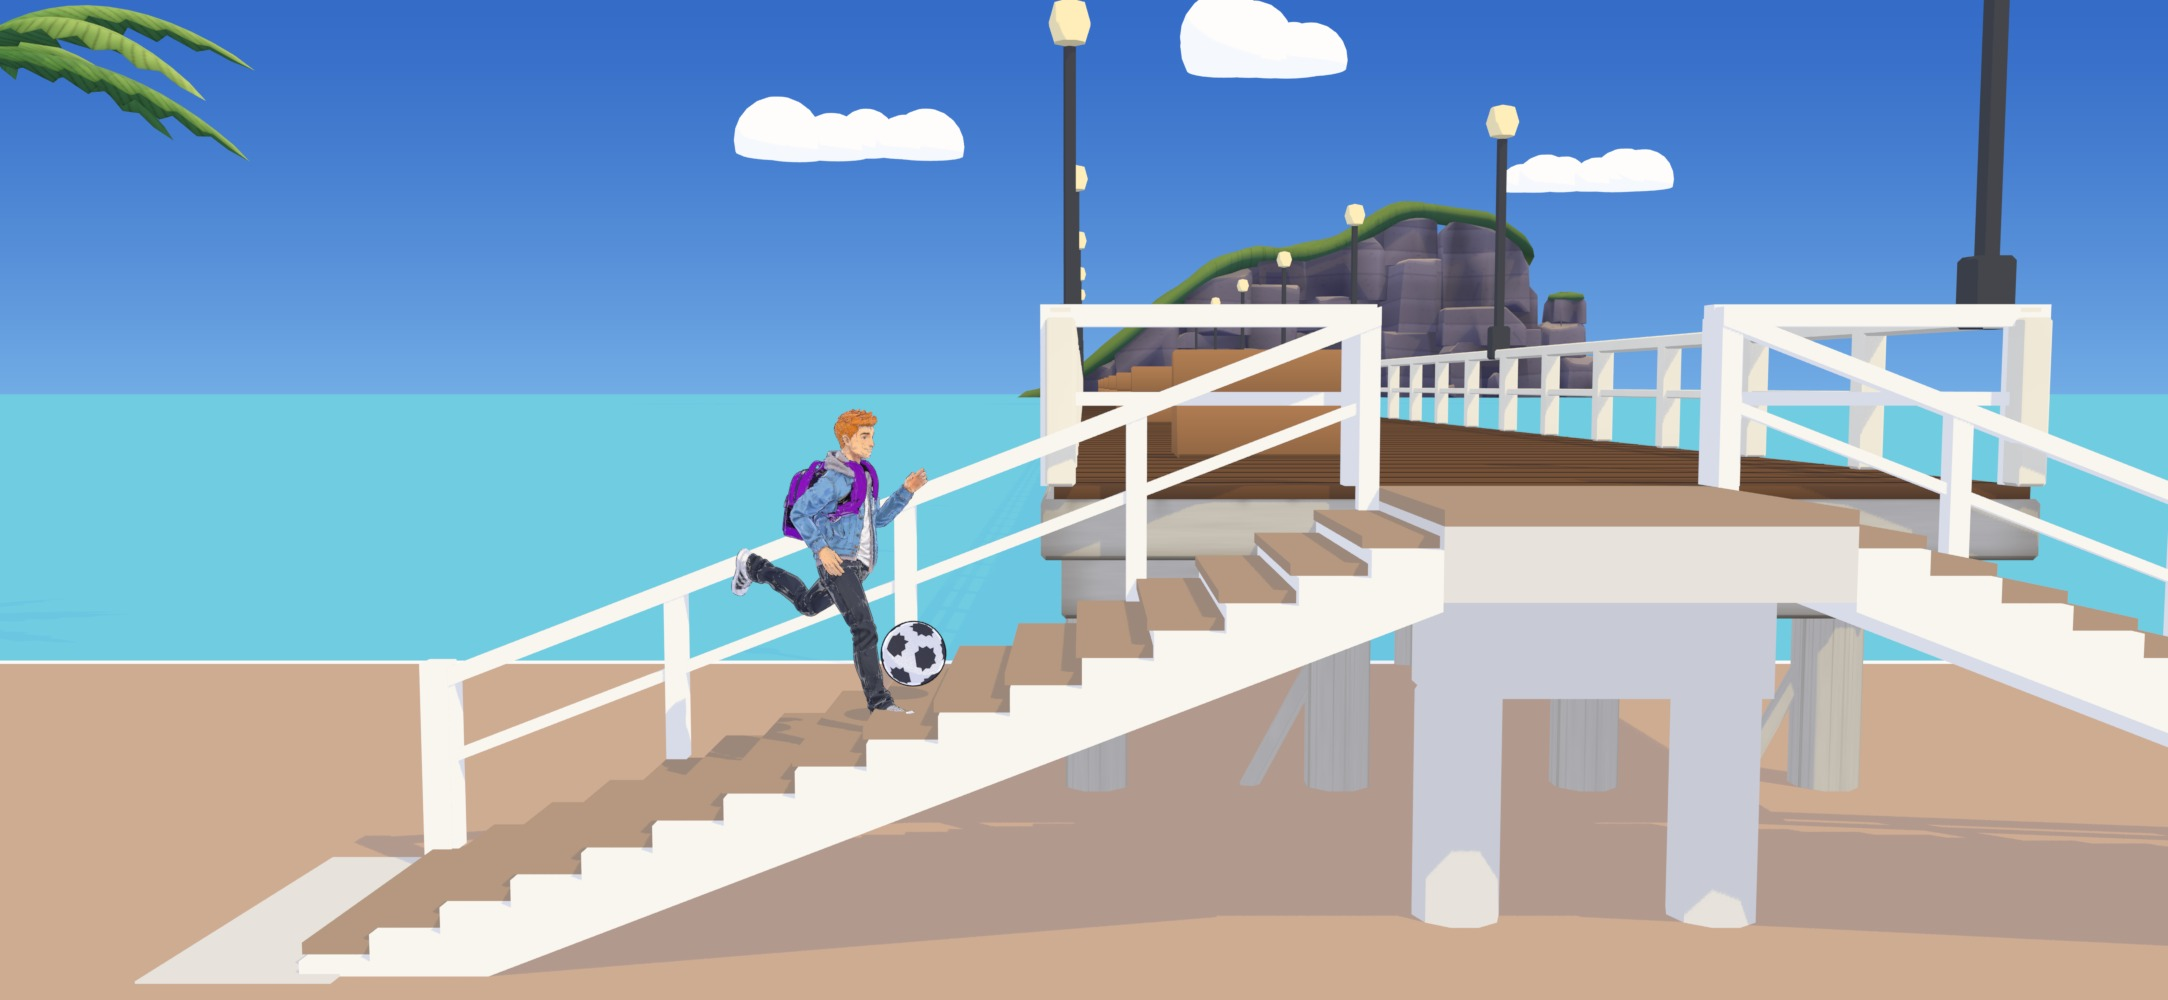
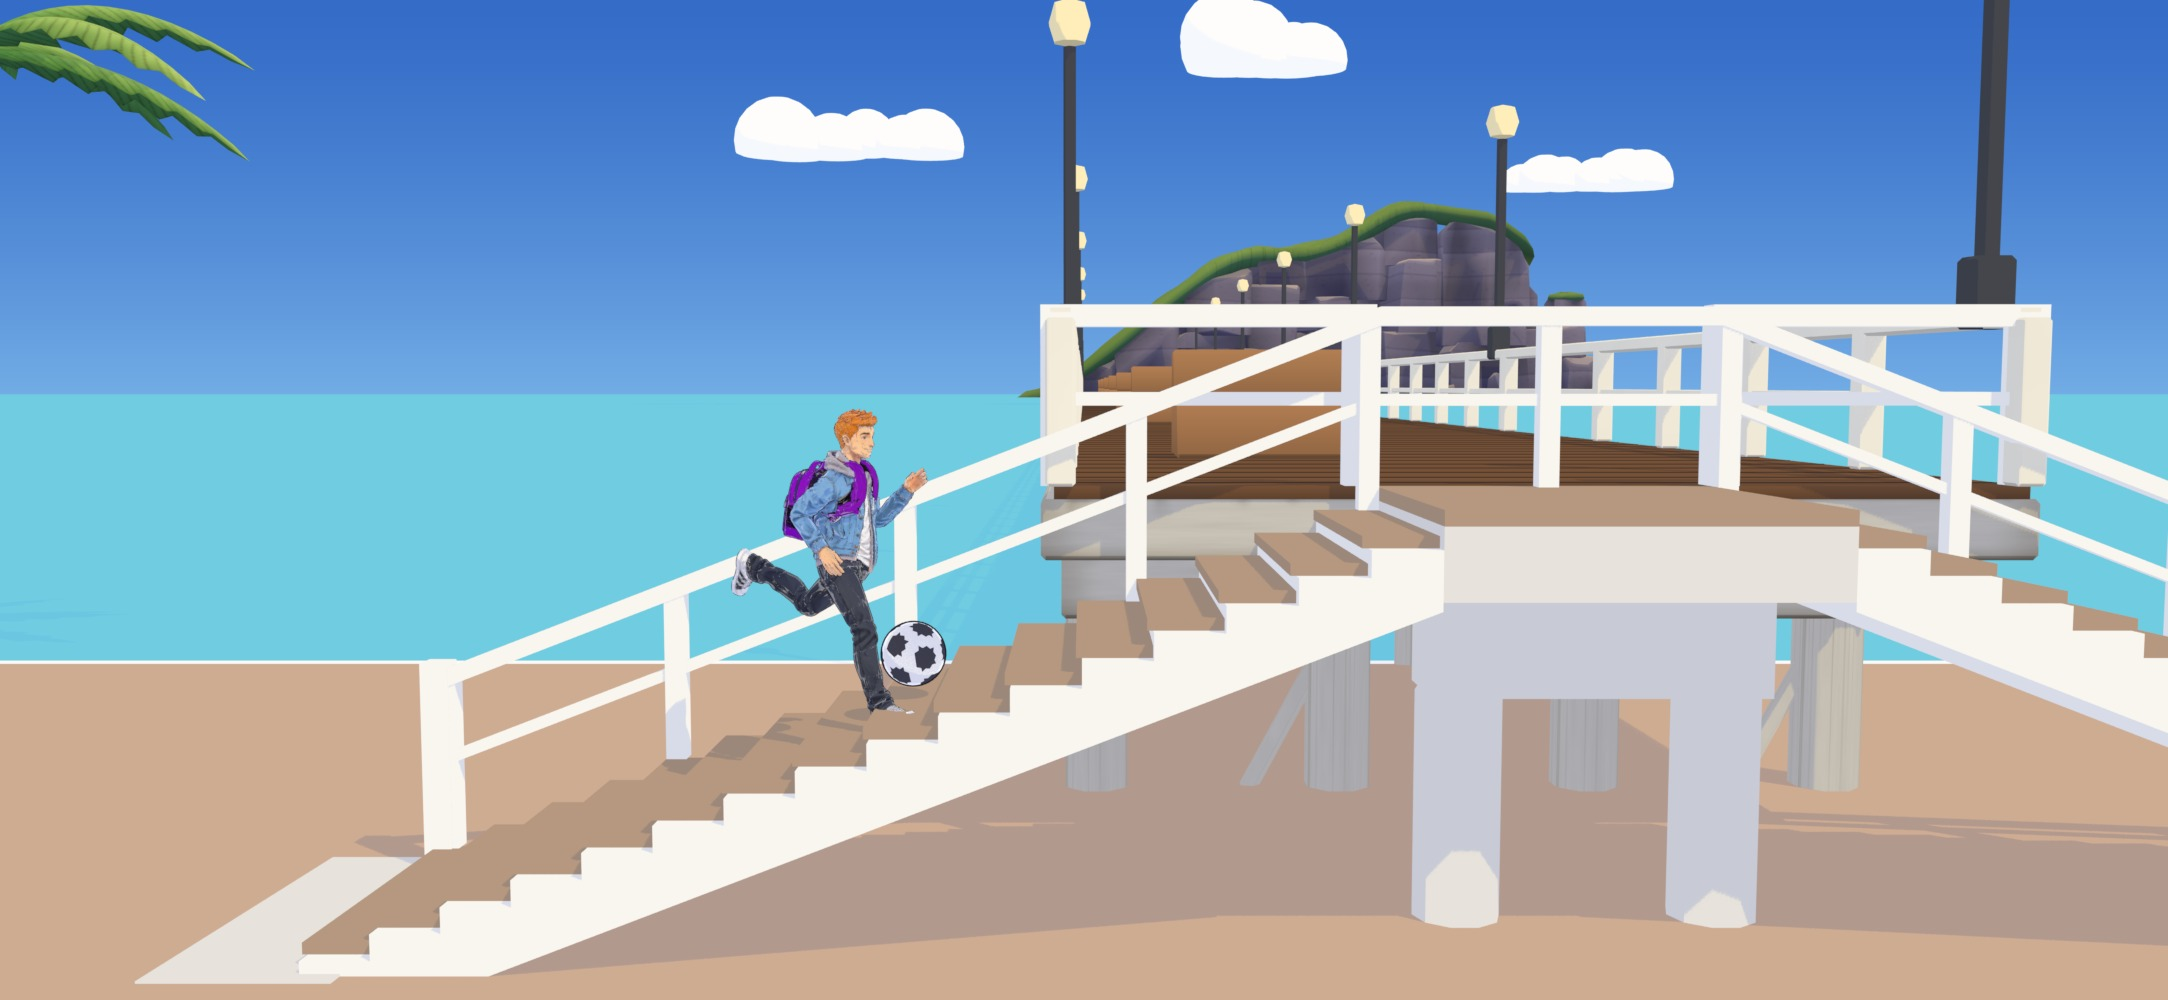
Pier climb: a fence across the top, one rail from foot to foot
On the course (Low Tide in California) the stairs' far rail stopped at each end of the landing,
leaving the top open. The rail now runs on along the back of the landing at the same height and
depth (top rail, mid rail, a post every 1.4 m at most), so it is one unbroken rail from the left
foot, up, over and down to the right foot. The camera's side stays open. PierStairs builds at load,
so the levels need no rebuild for it.

Claude-Session: https://claude.ai/code/session_015hMH18QThQGLzNLnkdW261

Changed region(s): [[0.6181, 0.279, 0.8035, 0.496]]

diff --git a/Assets/_Game/Scripts/World/PierStairs.cs b/Assets/_Game/Scripts/World/PierStairs.cs
@@ -111,6 +111,20 @@ namespace DribbleToSchool.World
                     foreach (float x in new[] { a + s * 0.09f, c - s * 0.09f })
                         Box(b, x - 0.09f, 0f, 0f, x + 0.09f, 1f, 0.18f, White, false);
                 }
+            if (onCourse)
+            {
+                // A fence across the top: the flights' rail goes on along the back of the landing, at the same height and
+                // depth, so it runs unbroken from the left foot, up, over and down to the right foot.
+                float zc = -0.08f;
+                Box(b, -hw, Rail - 0.11f, zc - 0.07f, hw, Rail, zc + 0.07f, White, true);
+                Box(b, -hw, 0.48f, zc - 0.04f, hw, 0.55f, zc + 0.04f, White, true);
+                int bays = Mathf.Max(1, Mathf.CeilToInt(landingWidth / 1.4f));
+                for (int k = 1; k < bays; k++)
+                {
+                    float x = -hw + landingWidth * k / bays;
+                    Box(b, x - 0.06f, 0f, zc - 0.06f, x + 0.06f, Rail - 0.05f, zc + 0.06f, White, false);
+                }
+            }
             // The bent under it: a cross beam on four piles (two under a short landing).
             float zb = -depth * 0.5f;
             Box(b, -hw + 0.1f, -1.05f, zb - 0.28f, hw - 0.1f, -0.45f, zb + 0.28f, Concrete, true);

diff --git a/review/pier_stairs/pier_stairs.py b/review/pier_stairs/pier_stairs.py
@@ -150,6 +150,16 @@ def build(mb, width=6.0, depth=1.9, drop_left=4.55, drop_right=4.55, landing_dro
             mb.box((min(a, c), 0.48, 0.03), (max(a, c), 0.56, 0.13), WHITE, bottom=True)
             for x in (a + s * 0.09, c - s * 0.09):
                 mb.box((x - 0.09, 0.0, 0.0), (x + 0.09, 1.0, 0.18), WHITE)
+    if on_course:
+        # a fence across the top: the flights' rail goes on along the back of the landing, unbroken from foot to foot
+        zc = -0.08
+        lw = 2 * hw
+        mb.box((-hw, RAIL - 0.11, zc - 0.07), (hw, RAIL, zc + 0.07), WHITE, bottom=True)
+        mb.box((-hw, 0.48, zc - 0.04), (hw, 0.55, zc + 0.04), WHITE, bottom=True)
+        bays = max(1, int(math.ceil(lw / 1.4)))
+        for k in range(1, bays):
+            x = -hw + lw * k / bays
+            mb.box((x - 0.06, 0.0, zc - 0.06), (x + 0.06, RAIL - 0.05, zc + 0.06), WHITE)
     # the bent under it: a cross beam on four piles (two under a short landing)
     zb = -depth / 2
     mb.box((-hw + 0.1, -1.05, zb - 0.28), (hw - 0.1, -0.45, zb + 0.28), CONCRETE, bottom=True)

diff --git a/review/pier_stairs/compose.py b/review/pier_stairs/compose.py
@@ -40,7 +40,7 @@ def label(im, text):
 COURSE = [('course_up', 'Up the steps with the ball: the camera rises with the kid'),
           ('course_top', 'Over the landing in front of the pier, at the top'),
           ('course_down', 'Down the other side to the sand (the camera follows them down)'),
-          ('course_whole', 'The climb across the lane: no rail on the camera side, so the kid is never behind bars')]
+          ('course_whole', 'One rail from foot to foot, fenced across the top; none on the camera side')]
 
 
 def course_board(src, out):

diff --git a/PROGRESS.md b/PROGRESS.md
@@ -824,7 +824,8 @@ The user found the first Coast models plain next to their reference shots (weath
   as two ramps and a ledge. The deck stands 2.3 m over the lane (the pier's piles go deeper into the sand there), and
   the flights are gentler than the pier's other stairs: risers of 13.5 cm on 35 cm treads, about 21 degrees, no steeper
   than the dunes. `StreetBuilder.Coast` `PierOnCourse` builds the pier with its near end just behind the lane and the
-  stairs across it (`World/PierStairs`, `onCourse`: a 2 m landing, the deck's edge railed either side of it, and nothing
+  stairs across it (`World/PierStairs`, `onCourse`: a 2 m landing, the deck's edge railed either side of it, a fence
+  across the back of the landing so the far rail runs unbroken from one foot, up, over and down to the other, and nothing
   on the camera's side, no rail and no lamps, so the kid and the ball are never behind bars).
 - **The kid keeps to slopes** (`Player/KidController`: `GroundNormal`, `IsWalkableSlope`, `AlongSlope`, `SlopeRise`):
   on the ground, on a slope up to about 45 degrees, not jumping, and not on something moving, the kid goes along the

diff --git a/review/pier_stairs/README.md b/review/pier_stairs/README.md
@@ -12,7 +12,7 @@ left and on the right (a mid-landing halfway on each), and a boardwalk path on t
 | `close.jpg` | The left flight close up: timber treads, white risers and cut stringers, rails, the path at the foot |
 | `course_board.jpg` | Low Tide in California, where the course climbs the pier: the four views below on one board |
 | `course_up.jpg`, `course_top.jpg`, `course_down.jpg` | The game's camera following the kid up the steps with the ball, over the landing and down |
-| `course_whole.jpg` | The climb across the lane: a 2 m landing, gentler flights, no rail on the camera's side |
+| `course_whole.jpg` | The climb across the lane: a 2 m landing fenced at the back (one rail from foot to foot), gentler flights, no rail on the camera's side |
 
 ## On the course (Low Tide, California)
 
